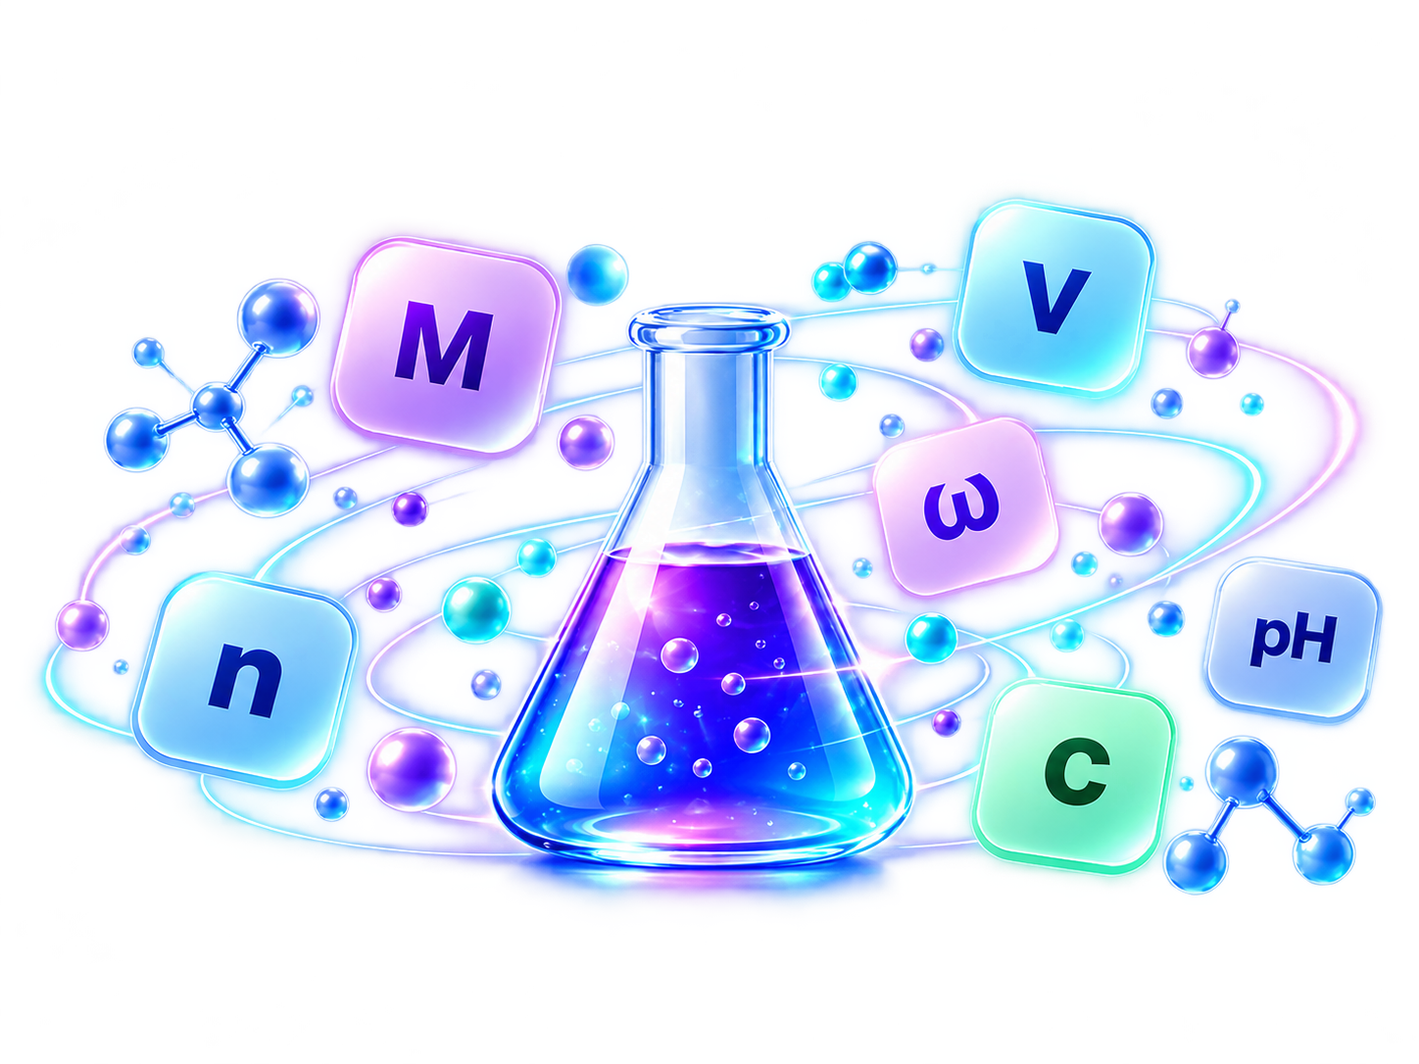
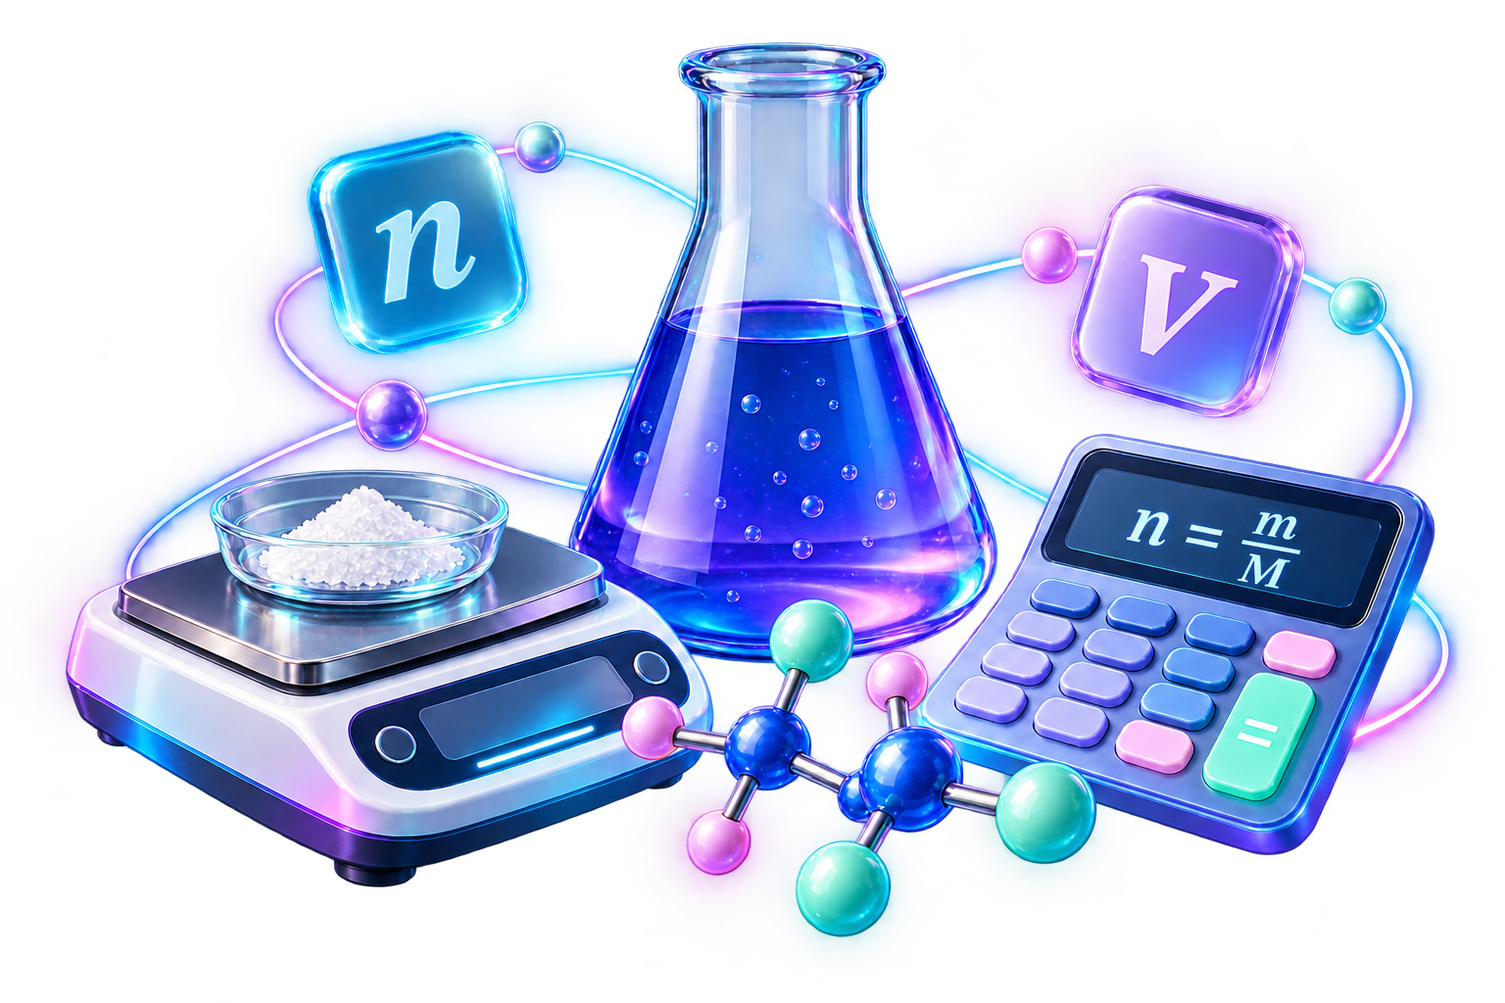
Add three section landing pages and refresh six chemistry hero illustrations

diff --git a/index.html b/index.html
@@ -85,13 +85,13 @@
             <span class="card-link">Відкрити <span>→</span></span>
           </a>
 
-          <article class="module-card module-card-v2 module-mint module-card-clickable" role="button" tabindex="0" data-card-preview="lab" aria-label="Переглянути напрям Віртуальна лабораторія">
+          <a class="module-card module-card-v2 module-mint module-card-clickable" aria-label="Відкрити розділ Віртуальна лабораторія" href="virtual-lab/">
             <div class="module-top"><div class="module-icon">⚗</div><div class="module-status status-build">Готуємо</div></div>
             <h3>Віртуальна лабораторія</h3>
             <p>Проводьте безпечні онлайн-досліди та спостерігайте ознаки хімічних реакцій.</p>
             <div class="module-tags"><span>Досліди</span><span>pH</span><span>Реакції</span></div>
             <span class="card-link">Дослідити <span>→</span></span>
-          </article>
+          </a>
 
           <a class="module-card module-card-v2 module-blue module-card-clickable" href="calculations/" aria-label="Відкрити Хімічні розрахунки">
             <div class="module-top"><div class="module-icon">Σ</div><div class="module-status status-live">Працює</div></div>
@@ -101,21 +101,21 @@
             <span class="card-link">Перейти до розрахунків <span>→</span></span>
           </a>
 
-          <article class="module-card module-card-v2 module-lime module-card-clickable" role="button" tabindex="0" data-card-preview="ionic" aria-label="Переглянути напрям Розчинність і йонні реакції">
+          <a class="module-card module-card-v2 module-lime module-card-clickable" aria-label="Відкрити розділ Розчинність і йонні реакції" href="ionic-reactions/">
             <div class="module-top"><div class="module-icon">⇄</div><div class="module-status status-plan">Заплановано</div></div>
             <h3>Розчинність і йонні реакції</h3>
             <p>Працюйте з розчинністю, осадами, йонами та різними формами запису реакцій.</p>
             <div class="module-tags"><span>Осади</span><span>Йони</span><span>Рівняння</span></div>
             <span class="card-link">Дослідити <span>→</span></span>
-          </article>
+          </a>
 
-          <article class="module-card module-card-v2 module-pink module-card-clickable" role="button" tabindex="0" data-card-preview="trainer" aria-label="Переглянути напрям Тренажери">
+          <a class="module-card module-card-v2 module-pink module-card-clickable" aria-label="Відкрити розділ Тренажери" href="trainers/">
             <div class="module-top"><div class="module-icon">◆</div><div class="module-status status-plan">Заплановано</div></div>
             <h3>Тренажери</h3>
             <p>Перевіряйте знання крок за кроком і відразу отримуйте пояснення відповіді.</p>
             <div class="module-tags"><span>Самоперевірка</span><span>Пояснення</span></div>
             <span class="card-link">Тренуватися <span>→</span></span>
-          </article>
+          </a>
 
           <a class="module-card module-card-v2 module-sand module-card-clickable" href="resources/" aria-label="Відкрити Корисні ресурси">
             <div class="module-top"><div class="module-icon">▤</div><div class="module-status status-live">Працює</div></div>

diff --git a/ionic-reactions/index.html b/ionic-reactions/index.html
@@ -1,0 +1,35 @@
+<!doctype html>
+<html lang="uk">
+<head>
+<meta charset="utf-8">
+<meta name="viewport" content="width=device-width, initial-scale=1">
+<meta name="description" content="Розчинність і йонні реакції: Досліджуйте розчинність речовин, утворення осадів і різні форми запису хімічних реакцій.">
+<meta name="color-scheme" content="light dark">
+<title>Розчинність і йонні реакції | Chemistry Learning Hub</title>
+<link rel="preconnect" href="https://fonts.googleapis.com">
+<link rel="preconnect" href="https://fonts.gstatic.com" crossorigin>
+<link href="https://fonts.googleapis.com/css2?family=Inter:wght@400;500;600;700;800&display=swap" rel="stylesheet">
+<link rel="stylesheet" href="../css/style.css?v=4">
+<link rel="stylesheet" href="../css/section-hero.css?v=1">
+<link rel="icon" href="../assets/favicon.ico?v=1" sizes="any">
+<link rel="icon" type="image/png" href="../assets/favicon.png?v=1" sizes="192x192">
+</head>
+<body class="section-page">
+<header class="site-header"><div class="shell section-header-inner">
+<a class="brand" href="../" aria-label="Chemistry Learning Hub — на головну"><span class="brand-mark" aria-hidden="true">⚛</span><span class="brand-copy"><strong>Chemistry Learning Hub</strong><small>Розчинність і йонні реакції</small></span></a>
+<div class="section-header-actions"><a class="section-back-link" href="../">← До хабу</a><button class="theme-toggle" id="themeToggle" type="button" aria-label="Змінити тему" aria-pressed="false"><span class="theme-icon" aria-hidden="true">◐</span></button></div>
+</div></header>
+<main>
+<section class="page-hero section-hero" aria-labelledby="sectionTitle"><div class="shell section-hero-grid">
+<div class="section-hero-copy"><p class="eyebrow">Chemistry Learning Hub</p><h1 id="sectionTitle">Розчинність і йонні реакції</h1><p class="section-lead">Досліджуйте розчинність речовин, утворення осадів і різні форми запису хімічних реакцій.</p><span class="section-status">Заплановано</span></div>
+<div class="section-hero-visual" aria-hidden="true"><img src="../assets/ionic-reactions-hero.png?v=1" width="1358" height="1159" alt="" decoding="async" fetchpriority="high"></div>
+</div></section>
+<section class="page-content section-content" aria-labelledby="plannedTitle"><div class="shell">
+<div class="section-intro"><p class="eyebrow">Скоро у хабі</p><h2 id="plannedTitle">Що буде в розділі</h2><p>Інтерактивні матеріали цього розділу ще готуються. Нижче — теми майбутніх завдань.</p></div>
+<ul class="section-topic-grid"><li>Катіони й аніони</li><li>Утворення осадів</li><li>Молекулярні рівняння</li><li>Повні йонні рівняння</li><li>Скорочені йонні рівняння</li></ul>
+<a class="secondary-button" href="../">Повернутися до напрямів</a>
+</div></section>
+</main>
+<footer class="site-footer"><div class="shell footer-inner"><div><strong>Chemistry Learning Hub</strong><span>ВСП «Аграрно-економічний фаховий коледж ПДАУ»</span></div><p>Інтерактивний простір з хімії для навчання, дослідження і самоперевірки</p></div></footer>
+<script src="../js/theme.js?v=2" defer></script>
+</body></html>

diff --git a/virtual-lab/index.html b/virtual-lab/index.html
@@ -1,0 +1,35 @@
+<!doctype html>
+<html lang="uk">
+<head>
+<meta charset="utf-8">
+<meta name="viewport" content="width=device-width, initial-scale=1">
+<meta name="description" content="Віртуальна лабораторія: Безпечні онлайн-досліди, спостереження за ознаками реакцій та навчальні симуляції.">
+<meta name="color-scheme" content="light dark">
+<title>Віртуальна лабораторія | Chemistry Learning Hub</title>
+<link rel="preconnect" href="https://fonts.googleapis.com">
+<link rel="preconnect" href="https://fonts.gstatic.com" crossorigin>
+<link href="https://fonts.googleapis.com/css2?family=Inter:wght@400;500;600;700;800&display=swap" rel="stylesheet">
+<link rel="stylesheet" href="../css/style.css?v=4">
+<link rel="stylesheet" href="../css/section-hero.css?v=1">
+<link rel="icon" href="../assets/favicon.ico?v=1" sizes="any">
+<link rel="icon" type="image/png" href="../assets/favicon.png?v=1" sizes="192x192">
+</head>
+<body class="section-page">
+<header class="site-header"><div class="shell section-header-inner">
+<a class="brand" href="../" aria-label="Chemistry Learning Hub — на головну"><span class="brand-mark" aria-hidden="true">⚛</span><span class="brand-copy"><strong>Chemistry Learning Hub</strong><small>Віртуальна лабораторія</small></span></a>
+<div class="section-header-actions"><a class="section-back-link" href="../">← До хабу</a><button class="theme-toggle" id="themeToggle" type="button" aria-label="Змінити тему" aria-pressed="false"><span class="theme-icon" aria-hidden="true">◐</span></button></div>
+</div></header>
+<main>
+<section class="page-hero section-hero" aria-labelledby="sectionTitle"><div class="shell section-hero-grid">
+<div class="section-hero-copy"><p class="eyebrow">Chemistry Learning Hub</p><h1 id="sectionTitle">Віртуальна лабораторія</h1><p class="section-lead">Безпечні онлайн-досліди, спостереження за ознаками реакцій та навчальні симуляції.</p><span class="section-status">Готуємо</span></div>
+<div class="section-hero-visual" aria-hidden="true"><img src="../assets/virtual-lab-hero.png?v=1" width="1374" height="1145" alt="" decoding="async" fetchpriority="high"></div>
+</div></section>
+<section class="page-content section-content" aria-labelledby="plannedTitle"><div class="shell">
+<div class="section-intro"><p class="eyebrow">Скоро у хабі</p><h2 id="plannedTitle">Що буде в розділі</h2><p>Інтерактивні матеріали цього розділу ще готуються. Нижче — теми майбутніх завдань.</p></div>
+<ul class="section-topic-grid"><li>Осадження</li><li>Нейтралізація</li><li>pH та індикатори</li><li>Спостереження за реакціями</li><li>Лабораторний звіт</li></ul>
+<a class="secondary-button" href="../">Повернутися до напрямів</a>
+</div></section>
+</main>
+<footer class="site-footer"><div class="shell footer-inner"><div><strong>Chemistry Learning Hub</strong><span>ВСП «Аграрно-економічний фаховий коледж ПДАУ»</span></div><p>Інтерактивний простір з хімії для навчання, дослідження і самоперевірки</p></div></footer>
+<script src="../js/theme.js?v=2" defer></script>
+</body></html>

diff --git a/trainers/index.html b/trainers/index.html
@@ -1,0 +1,35 @@
+<!doctype html>
+<html lang="uk">
+<head>
+<meta charset="utf-8">
+<meta name="viewport" content="width=device-width, initial-scale=1">
+<meta name="description" content="Тренажери: Тренуйтеся крок за кроком: короткі завдання, самоперевірка та пояснення відповідей.">
+<meta name="color-scheme" content="light dark">
+<title>Тренажери | Chemistry Learning Hub</title>
+<link rel="preconnect" href="https://fonts.googleapis.com">
+<link rel="preconnect" href="https://fonts.gstatic.com" crossorigin>
+<link href="https://fonts.googleapis.com/css2?family=Inter:wght@400;500;600;700;800&display=swap" rel="stylesheet">
+<link rel="stylesheet" href="../css/style.css?v=4">
+<link rel="stylesheet" href="../css/section-hero.css?v=1">
+<link rel="icon" href="../assets/favicon.ico?v=1" sizes="any">
+<link rel="icon" type="image/png" href="../assets/favicon.png?v=1" sizes="192x192">
+</head>
+<body class="section-page">
+<header class="site-header"><div class="shell section-header-inner">
+<a class="brand" href="../" aria-label="Chemistry Learning Hub — на головну"><span class="brand-mark" aria-hidden="true">⚛</span><span class="brand-copy"><strong>Chemistry Learning Hub</strong><small>Тренажери</small></span></a>
+<div class="section-header-actions"><a class="section-back-link" href="../">← До хабу</a><button class="theme-toggle" id="themeToggle" type="button" aria-label="Змінити тему" aria-pressed="false"><span class="theme-icon" aria-hidden="true">◐</span></button></div>
+</div></header>
+<main>
+<section class="page-hero section-hero" aria-labelledby="sectionTitle"><div class="shell section-hero-grid">
+<div class="section-hero-copy"><p class="eyebrow">Chemistry Learning Hub</p><h1 id="sectionTitle">Тренажери</h1><p class="section-lead">Тренуйтеся крок за кроком: короткі завдання, самоперевірка та пояснення відповідей.</p><span class="section-status">Заплановано</span></div>
+<div class="section-hero-visual" aria-hidden="true"><img src="../assets/trainers-hero.png?v=1" width="1536" height="1024" alt="" decoding="async" fetchpriority="high"></div>
+</div></section>
+<section class="page-content section-content" aria-labelledby="plannedTitle"><div class="shell">
+<div class="section-intro"><p class="eyebrow">Скоро у хабі</p><h2 id="plannedTitle">Що буде в розділі</h2><p>Інтерактивні матеріали цього розділу ще готуються. Нижче — теми майбутніх завдань.</p></div>
+<ul class="section-topic-grid"><li>Короткі завдання</li><li>Миттєва перевірка</li><li>Пояснення відповідей</li><li>Повторення без оцінки</li></ul>
+<a class="secondary-button" href="../">Повернутися до напрямів</a>
+</div></section>
+</main>
+<footer class="site-footer"><div class="shell footer-inner"><div><strong>Chemistry Learning Hub</strong><span>ВСП «Аграрно-економічний фаховий коледж ПДАУ»</span></div><p>Інтерактивний простір з хімії для навчання, дослідження і самоперевірки</p></div></footer>
+<script src="../js/theme.js?v=2" defer></script>
+</body></html>

diff --git a/css/section-hero.css b/css/section-hero.css
@@ -1,0 +1,21 @@
+
+.section-header-inner{display:flex;align-items:center;justify-content:space-between;gap:20px;min-height:82px}
+.section-header-actions{display:flex;align-items:center;gap:12px}
+.section-back-link{color:#fff;text-decoration:none;font-size:.84rem;font-weight:650}
+.section-hero{padding:24px 0 28px}
+.section-hero-grid{min-height:308px;display:grid;grid-template-columns:minmax(0,56fr) minmax(0,44fr);align-items:center;gap:40px}
+.section-hero-copy{min-width:0}
+.section-hero h1{margin:8px 0 16px;font-size:clamp(2.35rem,4.8vw,4.35rem);line-height:1.06;letter-spacing:-.05em}
+.section-lead{color:var(--muted);font-size:1.08rem;line-height:1.68}
+.section-status{display:inline-flex;padding:6px 12px;border:1px solid var(--line);border-radius:999px;color:var(--muted);background:var(--surface);font-size:.8rem;font-weight:650}
+.section-hero-visual{display:grid;place-items:center;min-width:0}
+.section-hero-visual img{display:block;width:100%;max-width:521px;max-height:330px;height:auto;object-fit:contain}
+.section-content{padding:42px 0 64px}
+.section-intro{max-width:800px}
+.section-intro h2{margin-bottom:12px;font-size:clamp(1.75rem,2.7vw,2.55rem);letter-spacing:-.04em}
+.section-intro>p:last-child{color:var(--muted)}
+.section-topic-grid{display:grid;grid-template-columns:repeat(2,minmax(0,1fr));gap:14px;list-style:none;padding:0;margin:26px 0}
+.section-topic-grid li{padding:22px;border:1px solid var(--line);border-radius:18px;background:var(--surface);font-weight:650}
+.section-page :is(a,button):focus-visible{outline:3px solid var(--primary);outline-offset:4px}
+@media(max-width:1120px){.section-hero-grid{gap:24px}}
+@media(max-width:700px){.section-header-inner{min-height:72px;gap:12px}.section-header-inner .brand-copy small{display:none}.section-back-link{display:none}.section-hero-grid{min-height:0;grid-template-columns:minmax(0,1fr);gap:20px}.section-hero-visual{width:min(360px,100%);margin-inline:auto}.section-hero-visual img{max-height:260px}.section-topic-grid{grid-template-columns:minmax(0,1fr)}.section-content{padding:30px 0 46px}}

diff --git a/resources/index.html b/resources/index.html
@@ -10,7 +10,7 @@
   <link rel="preconnect" href="https://fonts.gstatic.com" crossorigin>
   <link href="https://fonts.googleapis.com/css2?family=Inter:wght@400;500;600;700;800&display=swap" rel="stylesheet">
   <link rel="stylesheet" href="../css/style.css?v=4">
-  <link rel="stylesheet" href="resources.css?v=6">
+  <link rel="stylesheet" href="resources.css?v=7">
   <link rel="icon" href="../assets/favicon.ico?v=1" sizes="any">
   <link rel="icon" type="image/png" href="../assets/favicon.png?v=1" sizes="192x192">
 </head>
@@ -30,13 +30,14 @@
 
 <main>
   <section class="resources-hero" aria-labelledby="resourcesTitle">
-    <div class="shell resources-hero-grid resources-hero-grid-clean">
+    <div class="shell resources-hero-grid">
       <div class="resources-hero-copy">
         <p class="eyebrow">Навчальна опора</p>
         <h1 id="resourcesTitle">Корисні ресурси</h1>
         <p class="resources-lead">Окремі добірки для швидкої роботи з хімією: таблиці, алгоритми, правила безпеки, книги та перевірені джерела.</p>
         <p class="resources-hero-note">Обери потрібний напрям і переходь до окремої сторінки.</p>
       </div>
+      <div class="resources-hero-visual" aria-hidden="true"><img src="assets/resources-hero.png?v=1" width="1536" height="1024" alt="" decoding="async" fetchpriority="high"></div>
     </div>
   </section>
 

diff --git a/resources/resources.css b/resources/resources.css
@@ -44,3 +44,11 @@
 .resources-sources .resources-card-icon{background:color-mix(in srgb,var(--primary) 8%,var(--surface));border-color:color-mix(in srgb,var(--primary) 18%,var(--line))}
 .resources-direction-wide{grid-column:1/-1;min-height:215px}
 @media(max-width:700px){.resources-header-inner{min-height:72px;gap:12px}.resources-header-inner .brand-copy small{display:none}.resources-back-link{display:none}.resources-hero-grid{min-height:0;padding:44px 0 46px}.resources-hero-copy h1{font-size:clamp(2.45rem,12vw,3.65rem)}.resources-lead{font-size:.98rem}.resources-hero-note{border-radius:16px;line-height:1.45}.resources-overview{padding:42px 0 56px}.resources-direction-grid{grid-template-columns:minmax(0,1fr)}.resources-direction-card{min-height:0;padding:21px}.resources-direction-wide{grid-column:auto}.resources-card-top{margin-bottom:14px}}
+
+/* Glossy transparent illustration beside the section introduction. */
+.resources-hero-grid{grid-template-columns:minmax(0,56fr) minmax(0,44fr);gap:40px}
+.resources-hero-copy{min-width:0}
+.resources-hero-visual{display:grid;place-items:center;min-width:0}
+.resources-hero-visual img{display:block;width:100%;max-width:521px;max-height:308px;height:auto;object-fit:contain}
+@media(max-width:1120px){.resources-hero-grid{gap:24px}}
+@media(max-width:700px){.resources-hero-grid{grid-template-columns:minmax(0,1fr);gap:20px}.resources-hero-visual{width:min(360px,100%);margin-inline:auto}.resources-hero-visual img{max-height:240px}}

diff --git a/calculations/index.html b/calculations/index.html
@@ -40,7 +40,7 @@
           <p class="calc-catalog-lead">Оберіть потрібний напрям: основні хімічні розрахунки або профільні агрохімічні.</p>
         </div>
         <div class="calc-hero-visual" aria-hidden="true">
-          <img class="calc-hero-image" src="assets/calculations-hero.png" width="1448" height="1086" alt="" decoding="async" fetchpriority="high">
+          <img class="calc-hero-image" src="assets/calculations-hero.png?v=2" width="1536" height="1024" alt="" decoding="async" fetchpriority="high">
         </div>
       </div>
     </section>

diff --git a/formula-to-life/index.html b/formula-to-life/index.html
@@ -38,7 +38,7 @@
           <p class="life-hero-note">Знайома ситуація → хімічне пояснення → власний висновок</p>
         </div>
         <div class="life-hero-visual" aria-hidden="true">
-          <img class="life-hero-image" src="assets/life-hero.png" width="1672" height="941" alt="" decoding="async" fetchpriority="high">
+          <img class="life-hero-image" src="assets/life-hero.png?v=2" width="1536" height="1024" alt="" decoding="async" fetchpriority="high">
         </div>
       </div>
     </section>
